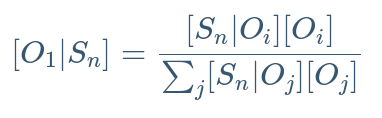
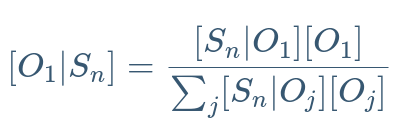
edit pres

diff --git a/index.html b/index.html
@@ -130,7 +130,7 @@ Seafood Labelling Requirements](http://www.seachoice.org/wp-content/uploads/2017
 ---
 # Biotracers
 
-#### Anything that could be informative:
+#### Anything that could be informative...
 
 - trace elements,
 - isotopes (delta),
@@ -138,7 +138,7 @@ Seafood Labelling Requirements](http://www.seachoice.org/wp-content/uploads/2017
 - gut contents,
 - etc.
 
-#### to create spatial fingerprints
+#### ... to create spatial fingerprints
 
 
 ---
@@ -167,25 +167,8 @@ analytical technique.
 
 &lt;br&gt;
 
-####  ![:faic](angle-double-right ) Why should we combine multiple sourcse of information in this context?
+####  ![:faic](angle-double-right ) Why should we combine multiple sources of information in this context?
 
-
-
-
-
----
-# Study case - King Crab
-
---
-
-&lt;br&gt;
-
-![](img/fig_map1.png)
-
-##### 1- Bering sea &amp;nbsp;&amp;nbsp; 2. Barents sea &amp;nbsp;&amp;nbsp; 3. Okhotsk sea
-
---
-#### ![:faic](arrow-right) So... 1, 2, or 3?
 
 ---
 # Study case - King Crab
@@ -202,7 +185,28 @@ analytical technique.
 - [consumer right-to-know](http://thehill.com/blogs/congress-blog/education/214268-consumers-have-a-right-to-know-where-their-food-comes-from)
 - sustainable fishery?
 
+
+
+---
+# Study case - King Crab
+
+&lt;br&gt;
+
+![](img/fig_map1.png)
+
+##### 1- Bering sea &amp;nbsp;&amp;nbsp; 2. Barents sea &amp;nbsp;&amp;nbsp; 3. Okhotsk sea
+
+--
+#### ![:faic](arrow-right) So... 1, 2, or 3?
+
+
 &lt;!-- https://www.alaskankingcrab.com/blogs/resources/blog-learn-fishing-for-king-crab --&gt;
+
+
+
+
+
+
 
 
 
@@ -213,16 +217,6 @@ class: inverse, center, middle
 
 ## a Bayesian framework
 
----
-# Basic ideas - multiple origins
-
-&lt;br&gt;
-
-
-
-##### - per biotracer
-
-##### - and per geographic zone
 
 &lt;!--need to define what is a meningful geographic area  --&gt;
 
@@ -239,7 +233,7 @@ class: inverse, center, middle
 
 --
 
-#### One distribution per area*biotracer
+#### One distribution per area*biotracer*product
 
 ---
 # Basic ideas - multiple origins
@@ -263,7 +257,7 @@ class: inverse, center, middle
 
 &lt;img src="index_files/figure-html/figA3-1.png" width="768" style="display: block; margin: auto;" /&gt;
 
-### &amp;nbsp;&amp;nbsp; O&lt;sub&gt;1&lt;/sub&gt;|S&lt;sub&gt;n&lt;/sub&gt;?  &amp;nbsp;&amp;nbsp;&amp;nbsp;&amp;nbsp;&amp;nbsp; S&lt;sub&gt;n&lt;/sub&gt;|O&lt;sub&gt;i&lt;/sub&gt; known!
+### &amp;nbsp; O&lt;sub&gt;1&lt;/sub&gt; | Sample ?  &amp;nbsp;&amp;nbsp;&amp;nbsp;&amp;nbsp;&amp;nbsp;&amp;nbsp;&amp;nbsp; Sample | O&lt;sub&gt;i&lt;/sub&gt; known!
 
 
 
@@ -311,23 +305,23 @@ class: inverse, center, middle
 
 
 - S&lt;sub&gt;n&lt;/sub&gt;: Sample of size n
-- O&lt;sub&gt;1&lt;/sub&gt;|S&lt;sub&gt;n&lt;/sub&gt;?
-- S&lt;sub&gt;n&lt;/sub&gt;|O&lt;sub&gt;i&lt;/sub&gt; Likelihood
+- O&lt;sub&gt;1&lt;/sub&gt; | S&lt;sub&gt;n&lt;/sub&gt;?
+- S&lt;sub&gt;n&lt;/sub&gt; | O&lt;sub&gt;i&lt;/sub&gt; Likelihood
 
 --
 
 - .alert[Assumptions]:
 
-  - sample from one of the area considered
+  - sample from one of the 3 areas considered
   - no mixture
 
 --
 
-- Bayesian Inversion rule:
+- Bayesian inversion rule:
 
-![:scalec](img/Bayes.png)
+![:scalec 34%](img/Bayes.png)
 
-&lt;!-- `$$[O_1|S_{n}] = \frac{[S_{n}|O_i][O_i]}{\sum_j [S_{n}|O_j][O_j]}$$` --&gt;
+&lt;!-- `$$[O_1|S_{n}] = \frac{[S_{n}|O_1][O_1]}{\sum_j [S_{n}|O_j][O_j]}$$` --&gt;
 
 ---
 # Theory - dissimilarity
@@ -431,18 +425,24 @@ class: inverse, center, middle
 
 #### Biotracers ~ N(μ, Σ)
 
+--
+
 ##### μ: means - fixed
+
+--
 
 ##### Σ: covariance matrix
 
 - diagonal (variances) fixed
 
-- off-diagonal terms vary:
+- off-diagonal terms (symetric) vary:
 
-`\begin{pmatrix}
+.center[![:scale 20%](img/covariance.png)]
+
+&lt;!-- \begin{pmatrix}
 1 &amp; \rho \\
 \rho &amp; 1
-\end{pmatrix}`
+\end{pmatrix} --&gt;
 
 
 
@@ -609,7 +609,19 @@ class: inverse, center, middle
 ---
 # King Crab - raw distribution
 
+![:scalec 80%](img/fig_Res1aa.png)
+
+---
+# King Crab - raw distribution
+
 ![:scalec 80%](img/fig_Res1b.png)
+
+---
+# King Crab - raw distribution
+
+![:scalec 80%](img/fig_Res1bb.png)
+
+
 
 
 ---
@@ -630,16 +642,13 @@ class: inverse, center, middle
 ![:scalec 80%](img/fig_Res2b.png)
 
 
-
-
-
 ---
 # King Crab - results
 
 &lt;br&gt;
 
 .column[
-  ![:scalec 90%](img/fig_Res1b.png)
+  ![:scalec 90%](img/fig_Res1bb.png)
 ]
 
 .column[
